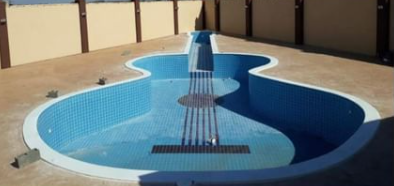
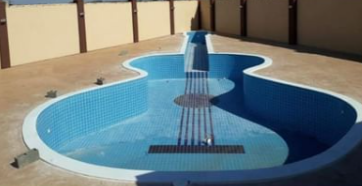
ajuste de proporção do carrossel de piscinas

diff --git a/lifegold/src/components/Slider/slider.css b/lifegold/src/components/Slider/slider.css
@@ -1,12 +1,13 @@
 .container{
     width: 100%;
     max-width: 1440px;
+    height:auto;
     margin: 0 auto;
 }
 
 .slider-item{
     width: 100%;
-    height: 580px;
+    height:auto;
     justify-content: center;
 }
 
